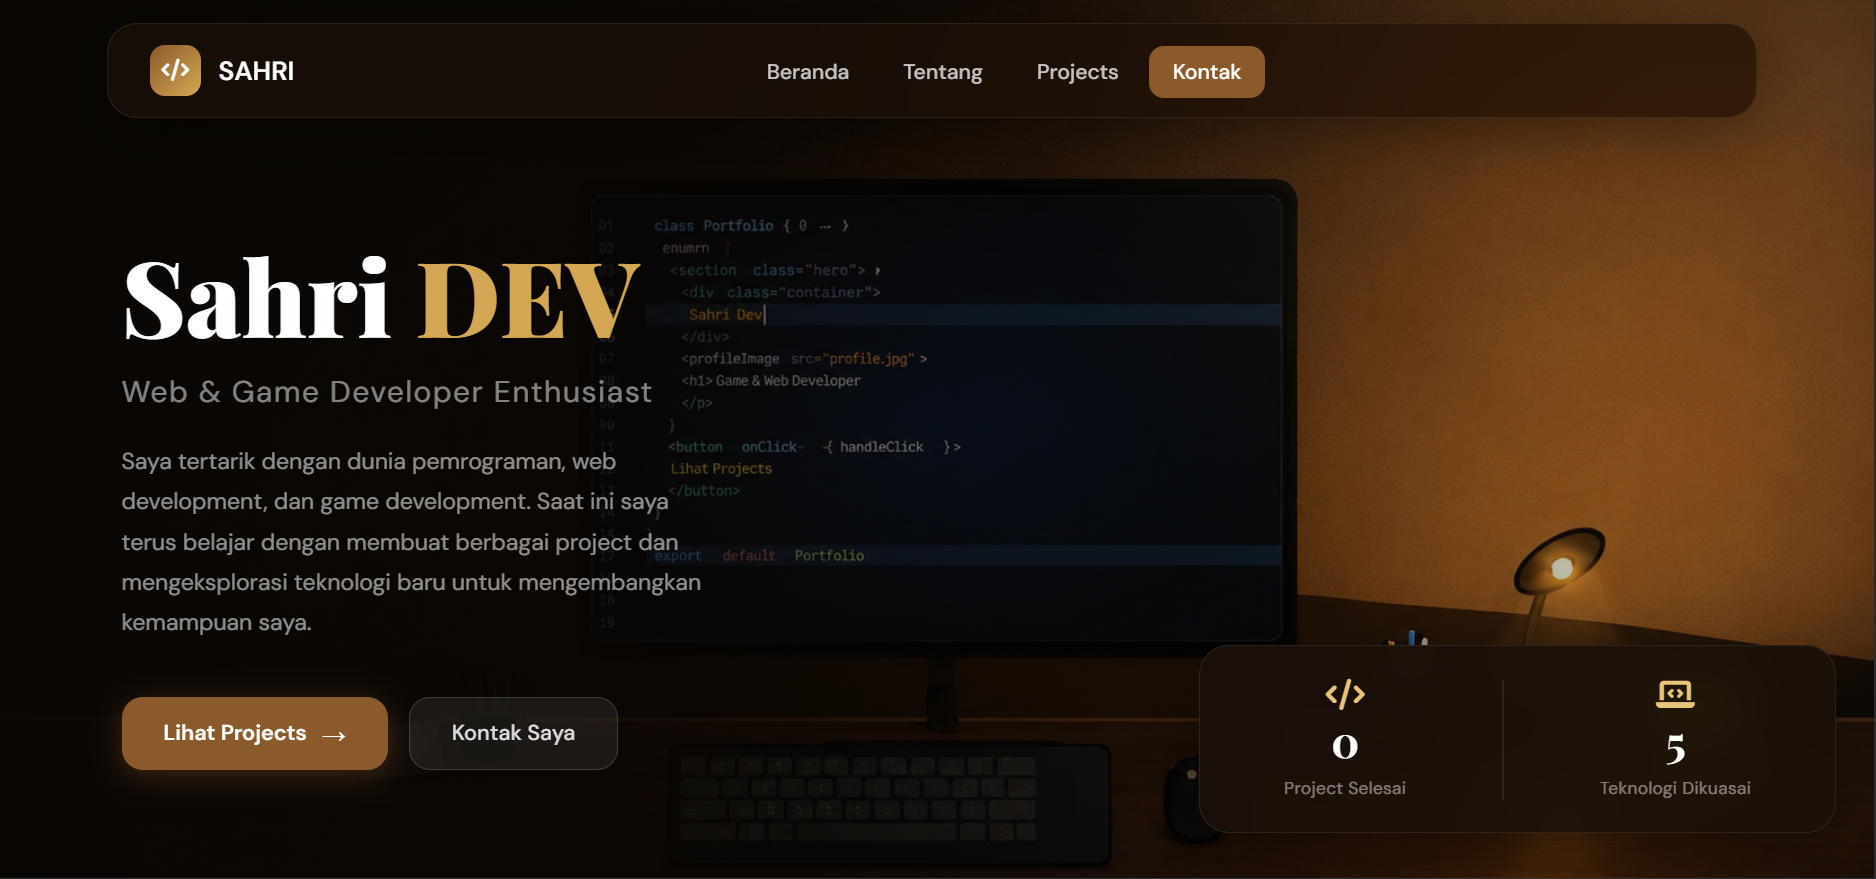
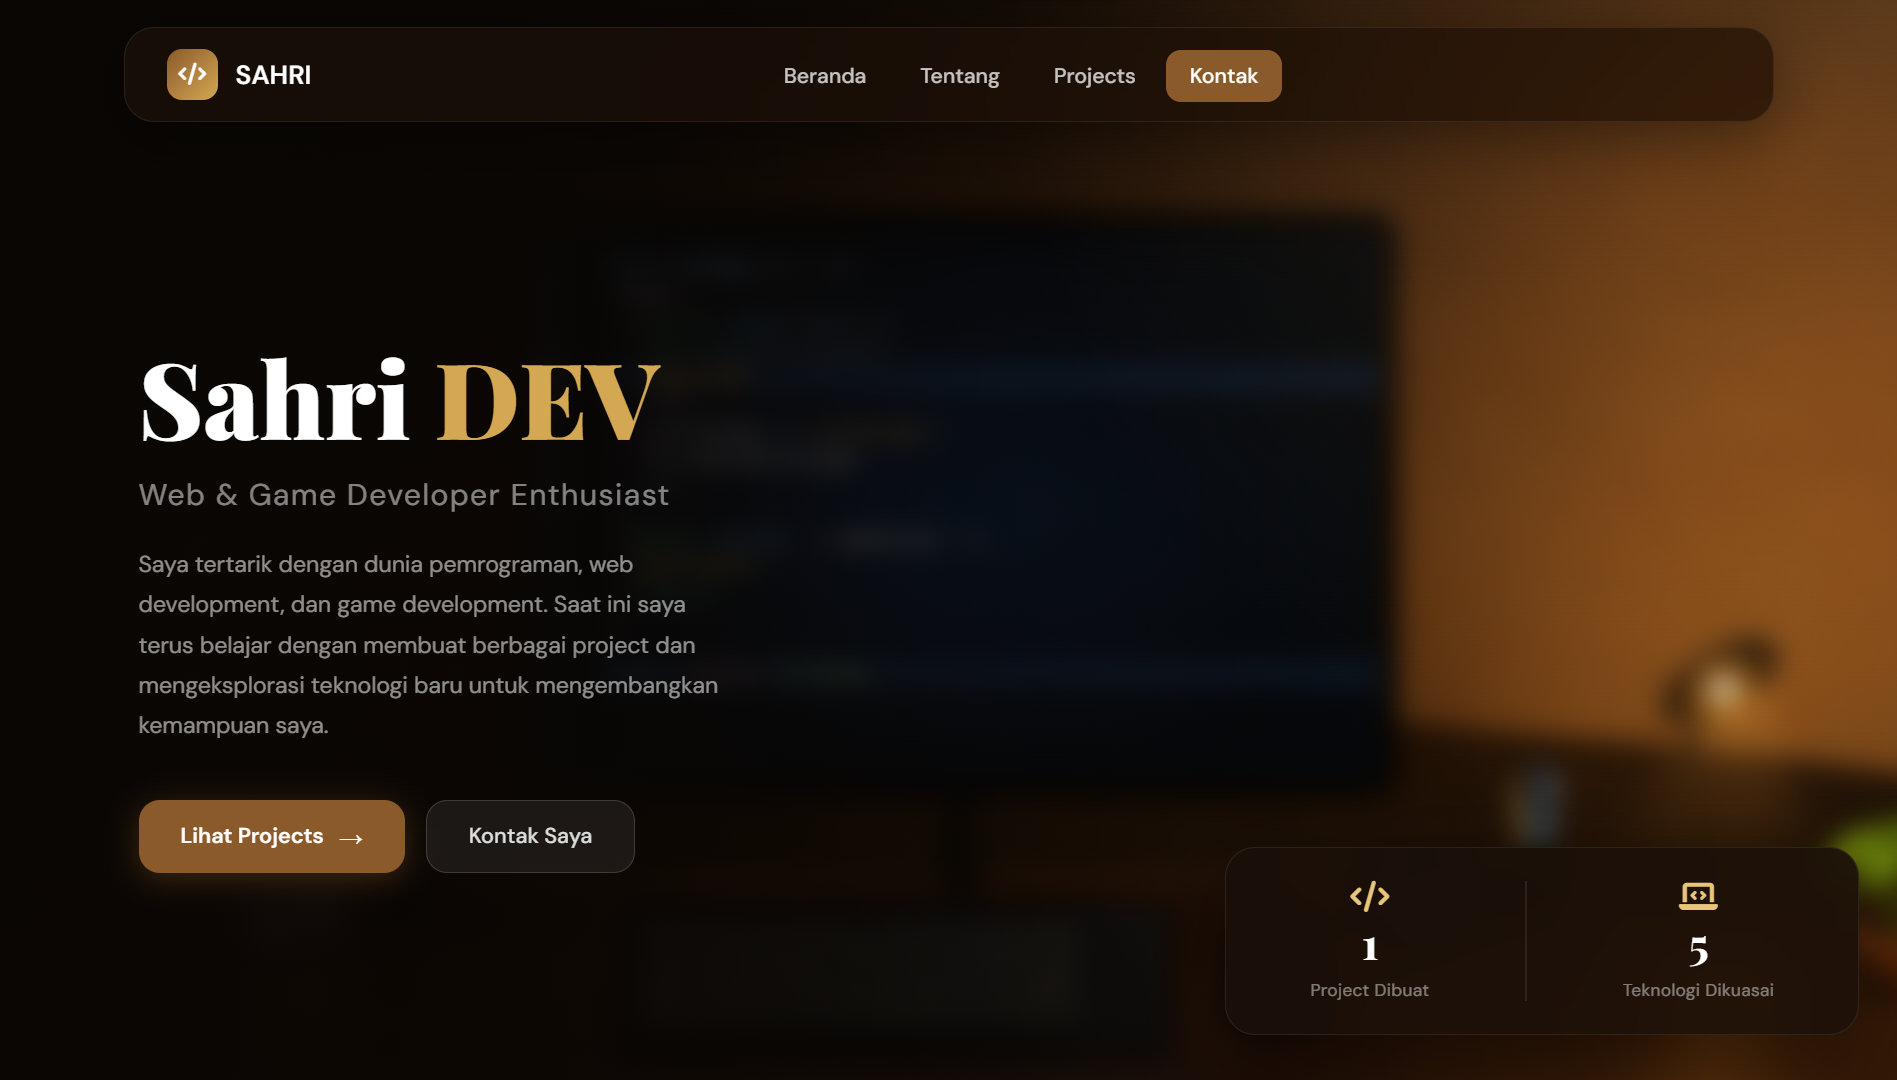
Add files via upload

diff --git a/index.html b/index.html
@@ -103,7 +103,6 @@
             <i class="fas fa-folder"></i>
             <h2 class="card-title">Projects</h2>
           </div>
-          <!-- Carousel Nav Arrows -->
           <div class="proj-carousel-nav">
             <button class="proj-arrow proj-arrow-prev" id="projPrev" aria-label="Previous project">
               <svg width="16" height="16" viewBox="0 0 24 24" fill="none" stroke="currentColor" stroke-width="2.5" stroke-linecap="round" stroke-linejoin="round"><polyline points="15 18 9 12 15 6"/></svg>
@@ -114,15 +113,11 @@
           </div>
         </div>
 
-        <!-- CAROUSEL WRAPPER -->
         <div class="proj-carousel-outer">
           <div class="proj-carousel-track" id="projTrack">
-
-            <!-- SLIDE 1: Portfolio Website -->
             <div class="proj-slide">
               <div class="proj-card-full proj-card-v2">
                 <div class="proj-thumb-16x9">
-                  <!-- Ganti src dengan foto screenshot proyekmu -->
                   <img src="Thumbnail1.png" alt="Portfolio Website thumbnail"
                        onerror="this.style.display='none';this.nextElementSibling.style.display='flex'">
                   <div class="proj-thumb-fallback" style="display:none;background:linear-gradient(135deg,#2d1a0e,#8b5a2b);">
@@ -161,14 +156,13 @@
               </div>
             </div>
 
-            <!-- SLIDE 3: Coming Soon -->
             <div class="proj-slide">
               <div class="proj-card-full proj-card-v2 proj-card-coming">
                 <div class="proj-thumb-16x9 proj-thumb-coming">
                   <div class="coming-thumb-inner">
                     <div class="coming-soon-icon">🚀</div>
                   </div>
-                  <div class="proj-card-number">03</div>
+                  <div class="proj-card-number">02</div>
                 </div>
                 <div class="proj-card-body proj-coming-body">
                   <h3 class="proj-name coming-soon-title">Coming Soon</h3>
@@ -183,7 +177,6 @@
           </div>
         </div>
 
-        <!-- Dots indicator -->
         <div class="proj-dots" id="projDots">
           <button class="proj-dot active" data-index="0" aria-label="Project 1"></button>
           <button class="proj-dot" data-index="1" aria-label="Project 2"></button>

diff --git a/style.css b/style.css
@@ -379,7 +379,6 @@ main {
   margin-bottom: 22px;
 }
 
-/* ── PROJECT CAROUSEL NAV ── */
 .proj-carousel-nav {
   display: flex; gap: 6px;
 }
@@ -404,7 +403,6 @@ main {
   transform: none;
 }
 
-/* ── CAROUSEL OUTER ── */
 .proj-carousel-outer {
   overflow: hidden;
   border-radius: 16px;
@@ -421,7 +419,6 @@ main {
   width: 100%;
 }
 
-/* ── PROJ CARD FULL (carousel style) ── */
 .proj-card-full {
   display: flex;
   gap: 0;
@@ -451,7 +448,6 @@ main {
   pointer-events: none;
 }
 
-/* ── DOTS ── */
 .proj-dots {
   display: flex; gap: 6px; justify-content: center;
   margin-top: 12px;
@@ -473,7 +469,6 @@ main {
   background: rgba(90,40,10,0.35);
 }
 
-/* ── LEGACY (keep for thumb mockup styles) ── */
 .proj-thumb-wrap {
   position: relative;
   width: 110px;
@@ -496,7 +491,6 @@ main {
   background: linear-gradient(to right, transparent 60%, rgba(245,239,230,0.15));
 }
 
-/* Mockup placeholder untuk thumbnail */
 .proj-thumb-mockup {
   padding: 10px;
   width: 100%;
@@ -590,7 +584,6 @@ main {
   transform: translateY(-1px);
 }
 
-/* ── PROJ CARD V2 (horizontal, thumbnail 16:9 di kiri) ── */
 .proj-card-v2 {
   flex-direction: row;
   align-items: stretch;
@@ -626,7 +619,6 @@ main {
   width: 80%; margin: auto;
 }
 
-/* Coming Soon thumbnail area */
 .proj-thumb-coming {
   background: linear-gradient(135deg, #1a0f08 0%, #2d1a0e 50%, #4a2c1a 100%);
 }
@@ -641,7 +633,6 @@ main {
   margin-bottom: 0;
 }
 
-/* Coming Soon body — tengah vertikal & horizontal */
 .proj-coming-body {
   display: flex;
   flex-direction: column;

diff --git a/script.js b/script.js
@@ -53,7 +53,6 @@ function setActiveNav() {
 
 window.addEventListener('scroll', setActiveNav, { passive: true });
 setActiveNav();
-// ── PROJECT CAROUSEL ──
 (function () {
   const track = document.getElementById('projTrack');
   const dots  = document.querySelectorAll('.proj-dot');
@@ -80,7 +79,6 @@ setActiveNav();
     dot.addEventListener('click', () => goTo(+dot.dataset.index));
   });
 
-  // Touch / swipe support
   let startX = 0, isDragging = false;
   const outer = track.parentElement;
 
@@ -96,7 +94,6 @@ setActiveNav();
     isDragging = false;
   }, { passive: true });
 
-  // Mouse drag support
   outer.addEventListener('mousedown', e => {
     startX = e.clientX;
     isDragging = true;